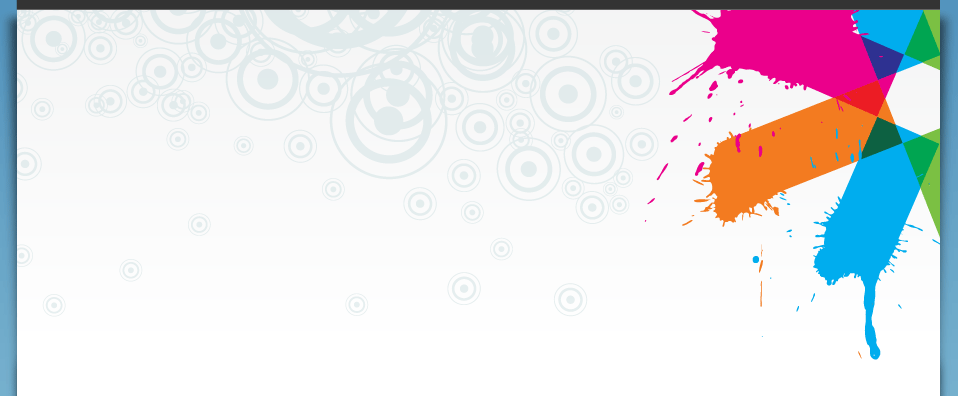
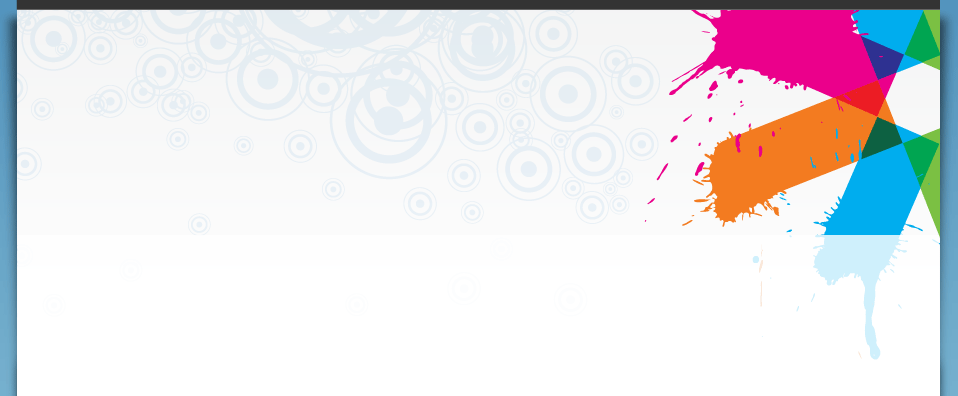
#105: blue lines attached to elements that are not blocks: closed
git-svn-id: http://svn.youthagora.org/satellite/trunk@190 724f02df-c632-4e49-bb9a-5d3e6873b890

Changed region(s): [[0.8476, 0.5758, 0.9687, 0.9091], [0.7871, 0.6364, 0.8173, 0.6667]]

diff --git a/profiles/satellite/themes/satellite/satellite.css b/profiles/satellite/themes/satellite/satellite.css
@@ -8,7 +8,7 @@ ul.secondary li.active a, ul.secondary li.active a:link, ul.secondary li.active 
 #shadow-footer { background: url(images/layout/footer.png) bottom center no-repeat; }
 #footer div.container { height:200px; margin-top:180px; padding-left: 248px; color: white;}
 #footer div.container a { color: #a7a7a7;}
-#header-title { height:177px;}
+#header-title { height: 206px;}
 #block-menu_block-1 li { padding:0 15px; }
 #header-top { border-top: 7px solid #333; background: #EEEEEE; border-bottom: 1px solid #ddd; float: left; width: 923px;}
 #header-top .block { display: block; float: right;}
@@ -64,5 +64,10 @@ ul.secondary li.active a, ul.secondary li.active a:link, ul.secondary li.active 
 .block { padding-top: 1.2em; margin-bottom: 0;}
 #block-views-spotlights-block_1 { margin-bottom: 0; }
 #header .block { padding-top: 0;}
+td.block {border: 0;}
 
+/**
+ * Custom fixes
+ */
+#cck-complete-percent-bar-wrapper-setting { background:#FFFFFF none repeat scroll 0 0;border:1px solid #AAAAAA;padding:1px;width:100%;}
 
